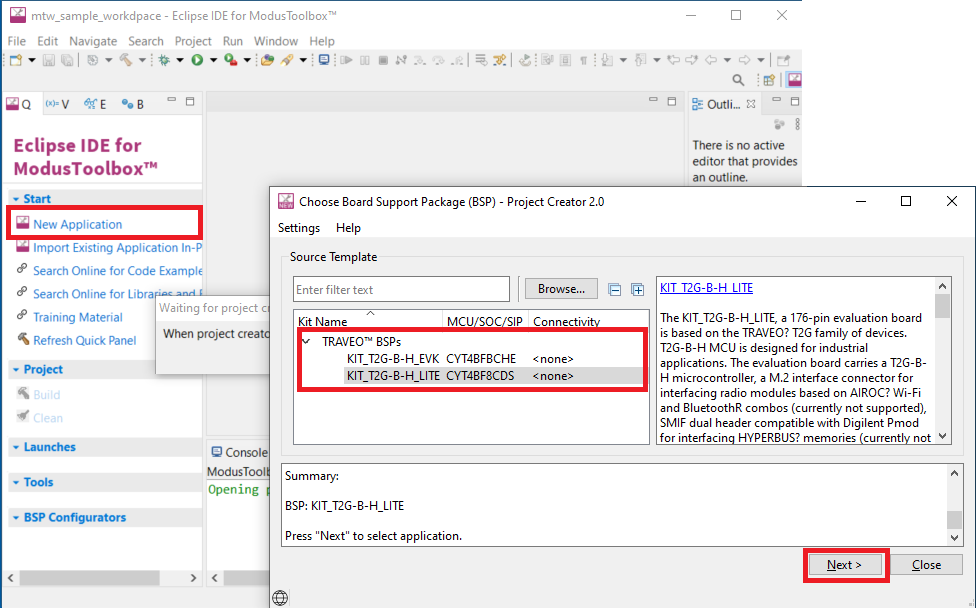
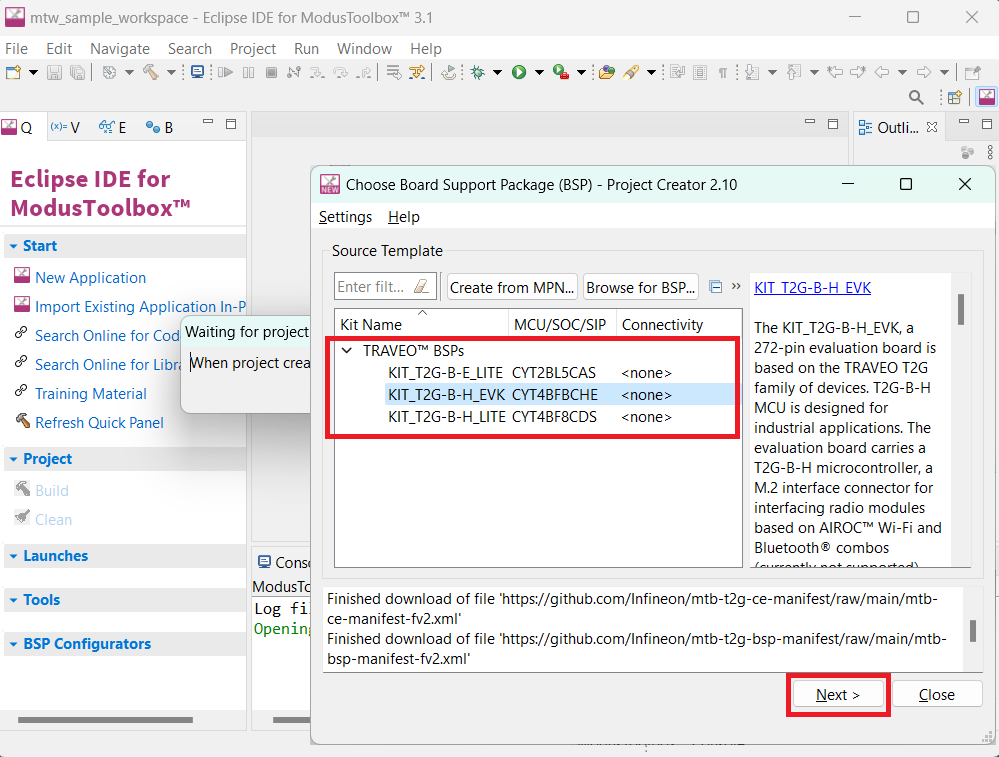
Upload SHA-1: fce454d8c61825c3b2cd4e940ca96d5b117d9adb

diff --git a/README.md b/README.md
@@ -5,7 +5,11 @@ The additional code examples are available for TRAVEO™ T2G devices in this rep
 
 To use a code example into ModusToolbox™, follow the guide at **[How to setup](#How-to-setup)**.
 
-Please refer the [ModusToolbox™ software](https://github.com/Infineon/modustoolbox-software) for ModusToolbox™
+Please refer the [ModusToolbox™ software](https://github.com/Infineon/modustoolbox-software) for ModusToolbox™. It is recommended using latest ModusToolbox™ software.
+
+## Supported device
+- [TRAVEO™ T2G body high MCU](https://www.infineon.com/cms/en/product/microcontroller/32-bit-traveo-t2g-arm-cortex-microcontroller/32-bit-traveo-t2g-arm-cortex-for-body/traveo-t2g-cyt4bf-series/): CYT4BFBCHE, CYT4BF8CDS
+- [TRAVEO™ T2G Body Entry MCU](https://www.infineon.com/cms/en/product/microcontroller/32-bit-traveo-t2g-arm-cortex-microcontroller/32-bit-traveo-t2g-arm-cortex-for-body/traveo-t2g-cyt2bl-series/): CYT2BL5CAS
 
 ## Application note
 AN235305 - GETTING STARTED WITH TRAVEO™ T2G FAMILY MCUS IN MODUSTOOLBOX™
@@ -27,16 +31,16 @@ Each Code example provides a README.md file to learn more about that code exampl
 ## How to setup
 To use the additional code examples, set the following environment variable on your PC.
 
-- Variable = CyRemoteManifestOverride
-- Path = https://github.com/Infineon/mtb-t2g-super-manifest/raw/main/mtb-super-manifest-fv2.xml
+- Variable name = CyRemoteManifestOverride
+- Variable value = https://github.com/Infineon/mtb-t2g-super-manifest/raw/main/mtb-super-manifest-fv2.xml
 
 *Figure 1. System variable setting*<BR><img src="./Images/SystemVariable.png" width="1000" />
 
-From the menu, run the Eclipse IDE for ModusToolbox™ 3.0 application. Then, open the Eclipse IDE window after workspace location setting.
+From the menu, run the Eclipse IDE of ModusToolbox™ application. Then, open the Eclipse IDE window after workspace location setting.
+- Click the **New Application** of Start in the Quick Panel, after that, open the Project creator.
 
 *Figure 2. ModusToolbox™ Eclipse IDE*<BR><img src="./Images/Modustoolbox.png" width="1000" />
 
-- Click the **New Application** of Start in the Quick Panel, after that, open the Project creator.
 - Select the Board support package (BSP) what want to use, and click the **Next>** button.
 
 *Figure 3. Project Creator*<BR><img src="./Images/ProjectCreator.png" width="1000" />
@@ -47,19 +51,19 @@ From the menu, run the Eclipse IDE for ModusToolbox™ 3.0 application. Then, op
 
 ## Evaluation kit
 The code examples support the following types of boards: <br>
-*Figure 5. Evaluation kit view*<BR><img src="./Images/Board.png" width="600" />
+*Figure 5. KIT_T2G-B-H_EVK*<BR><img src="./Images/KIT_T2G-B-H_EVK.png" width="600" /><br>
+*Figure 6. KIT_T2G-B-H_LITE*<BR><img src="./Images/KIT_T2G-B-H_LITE.png" width="400" /><br>
+*Figure 7. KIT_T2G-B-E_LITE*<BR><img src="./Images/KIT_T2G-B-E_LITE.png" width="400" /><br><br>
 
 
-
-
-|   Overview                    |KIT_T2G-B-H_EVK         |KIT_T2G-B-H_LITE          |
-|-------------------------------|------------------------|--------------------------|
-|MCU                            |CYT4BFBCHE (272pin-BGA) |CYT4BF8CDS (176pin-TEQFP) |
-|Kitprog3 programming/Debug     |✓                       |✓                        |
-|USER LEDs/Buttons/Potentiometer|✓                       |✓                        |
-|CAN FD                         |✓                       |✓                        |
-|Ethernet interface             |1 Gbps Ethernet         |10/100 Mbps Ethernet      | 
-|QSPI memory                    |512 MB x1               |512 MB x2                 |
-|Arduino                        |✓                       |✓                        |
-|Shield2go                      |N/A                     |✓                        |
-|MikroBUS                       |N/A                     |✓                        |
+|   Overview                    |KIT_T2G-B-H_EVK         |KIT_T2G-B-H_LITE          |KIT_T2G-B-H_LITE         |
+|-------------------------------|------------------------|--------------------------|-------------------------|
+|MCU                            |CYT4BFBCHE (272pin-BGA) |CYT4BF8CDS (176pin-TEQFP) |CYT2BL5CAS (100pin-LQFP) |
+|Kitprog3 programming/Debug     |✓                       |✓                        |✓                        |
+|USER LEDs/Buttons/Potentiometer|✓                       |✓                        |✓                        |
+|CAN FD                         |✓                       |✓                        |✓                        |
+|Ethernet interface             |1 Gbps Ethernet         |10/100 Mbps Ethernet      |Not Available            | 
+|QSPI memory                    |512 MB x1               |512 MB x2                 |Not Available            | 
+|Arduino                        |✓                       |✓                        |✓                        |
+|Shield2go                      |Not Available           |✓                        |✓                        |
+|MikroBUS                       |Not Available           |✓                        |✓                        |
